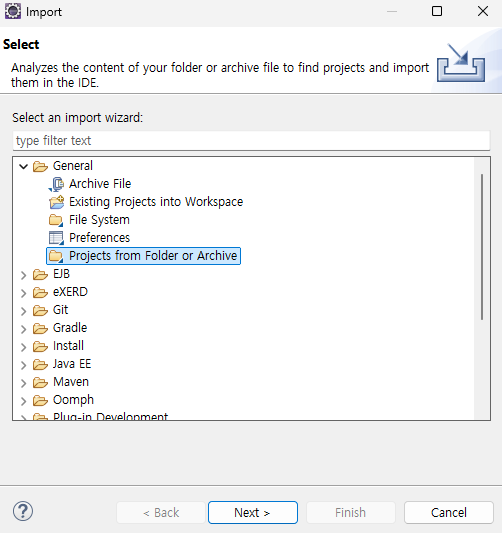
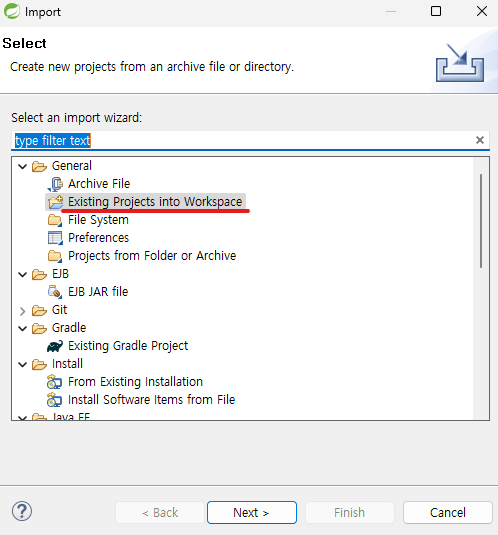
spring

diff --git a/_posts/LESSON/SPRING(Lesson)/2024-10-07-Spring.md b/_posts/LESSON/SPRING(Lesson)/2024-10-07-Spring.md
@@ -50,3 +50,86 @@ author_profile: false
       -vm
       C:\Program Files\Java\jdk-11\bin\javaw.exe
    ```
+
+servlet-context.xml
+root-context.xml
+은 자동으로 실행이 안되기 때문에 web.xml에 등록
+
+handler mapping -> requestMapping
+
+web.xml에 <url-pattern>/<url-pattern>
+'/' 값을 받는게 handler mapping   
+
+
+<img src="../../../imgs/LESSON/SPRING(Lesson)/spring_path.png" style="border:3px solid black;border-radius:9px;width:500px">   
+
+자바 : 할당
+스프링 : 주입
+
+xml로 객체 생성을 쉽게, 의존성을 줄이면서 만드는 것 - IOC   
+IOC로 만든 객체에 값을 주입하는 것(할당하는 것) - DI   
+
+생성자로 값 주입(할당) - Construction DI   
+Setter로 값 주입(할당) - Setter DI   
+
+xml를 이용해서 객체 생성 - IOC   
+생성된 객체의 생성자에 값 주입 - 생성자DI   
+Setter로 값 주입 - Setter DI   
+
+bean파일을 만들었다고 자동으로 설정되어 읽는 것이 아니라 따로 파일을 읽어들여야 메모리에 할당이 되고 실행 됨   
+ApplicationContext ac = new FileSystemXmlApplicationContext("beans01.xml");
+
+빈 간의 의존 관계를 컨테이너(=>xml파일)에서 설정하고 관리 한다는 개념   
+
+**빈(Bean)**은 스프링 컨테이너가 관리하는 객체를 의미합니다. 더 간단히 말하면, 스프링 애플리케이션에서 사용되는 모든 객체를 빈이라고 생각하면 됩니다.
+  
+  resource디렉토리 classpath:beans08.xml
+
+
+<img src="../../../imgs/LESSON/SPRING(Lesson)/annotation_order.png" style="border:3px solid black;border-radius:9px;width:500px">
+
+```
+   <beans:bean class="org.springframework.web.servlet.view.InternalResourceViewResolver">
+		<beans:property name="prefix" value="/WEB-INF/views/" />
+		<beans:property name="suffix" value=".jsp" />
+	</beans:bean>	
+```
+setter DI : property가 setter의미, prefix변수에 "/WEB-INF/views/" 입력
+
+prefix : view파일이 저장되어 있는 최상위 디렉토리   
+suffix : view파일의 확장자
+
+web.xml
+```xml
+<!-- 한글 인코딩 설정 : post방식 -->
+	<filter>
+		<filter-name>CharacterEncodingFilter</filter-name>
+		<filter-class>org.springframework.web.filter.CharacterEncodingFilter</filter-class>
+		<init-param>
+			<param-name>encoding</param-name>
+			<param-value>UTF-8</param-value>
+		</init-param>
+		<init-param>
+			<param-name>forceEncoding</param-name>
+			<param-value>true</param-value>
+		</init-param>
+	</filter>
+	<filter-mapping>
+		<filter-name>CharacterEncodingFilter</filter-name>
+		<url-pattern>/*</url-pattern>
+	</filter-mapping>
+```
+
+base-package : 자바 파일 저장되어 있는 최상위 디렉토리
+<context:component-scan base-package="com.ch.hello" />
+
+
+index.jsp파일이 없으면 실행할 때 오른쪽 마우스 -> Run as -> Run on Server
+
+```java
+   @RequestMapping("/color")
+	public String color(Model model){
+      ...
+   }
+```
+@RequestMapping("/color") 애노테이션이 붙은 메서드에서 Model 객체를 매개변수로 선언하는 것은 Spring MVC에서 View에 데이터를 전달하기 위한 가장 일반적인 방법입니다.

diff --git a/_posts/LESSON/SPRING(Lesson)/2024-10-07-maven copy.md b/_posts/LESSON/SPRING(Lesson)/2024-10-07-maven copy.md
@@ -20,11 +20,10 @@ author_profile: false
 1. # maven project import
    maven project는 war파일로 압축을 하면 설정이 바뀌기 때문에 압축을 해서 압축 파일을 그대로 import해야 한다.   
 
-   import → Projects from Folder or Archive   
+   import → Exising Projects into Workspace      
    <img src="../../../imgs/LESSON/SPRING(Lesson)/import_zip1.png" style="border:3px solid black;border-radius:9px;width:500px">   
 
-   <img src="../../../imgs/LESSON/SPRING(Lesson)/import_zip2.png" style="border:3px solid black;border-radius:9px;width:500px">   
-
+   Copy projects into workspace를 선택   
    <img src="../../../imgs/LESSON/SPRING(Lesson)/import_zip3.png" style="border:3px solid black;border-radius:9px;width:500px">   
 
 1. # MyBatis
